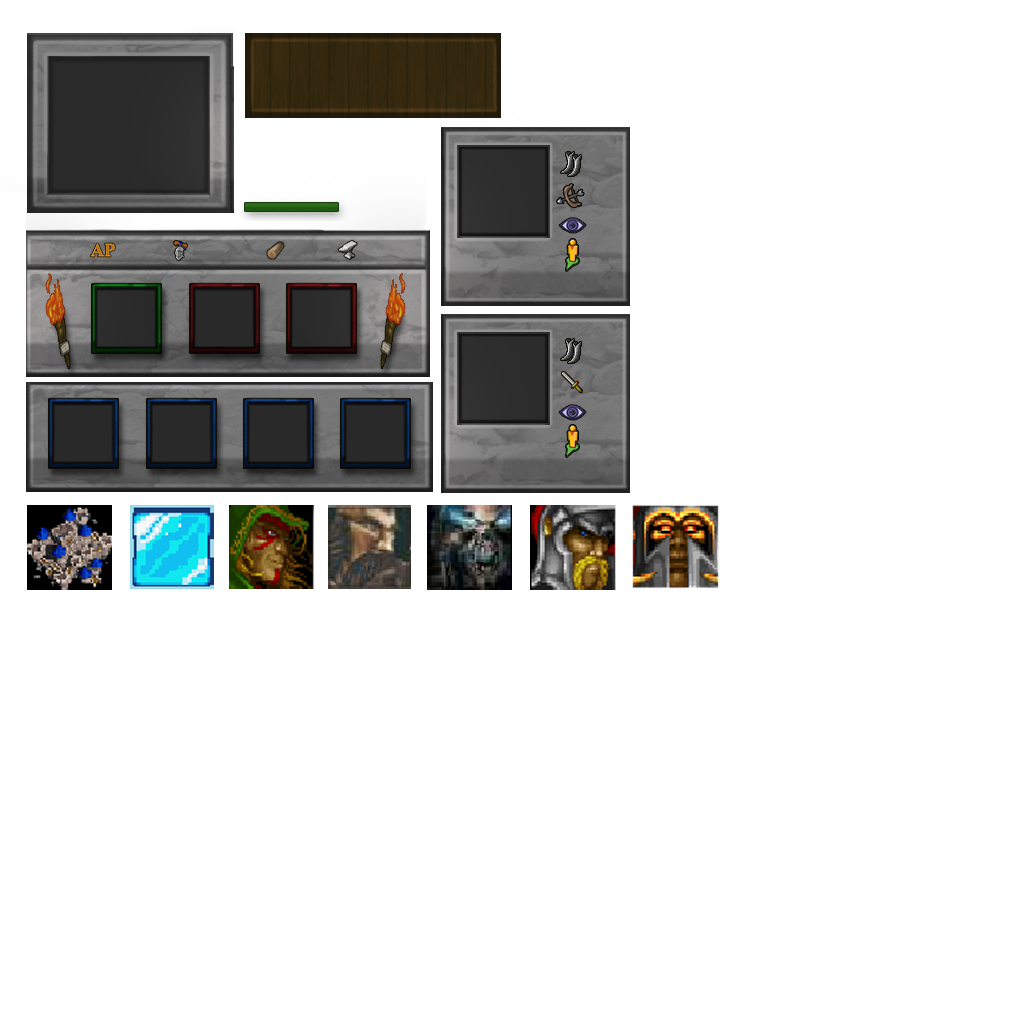
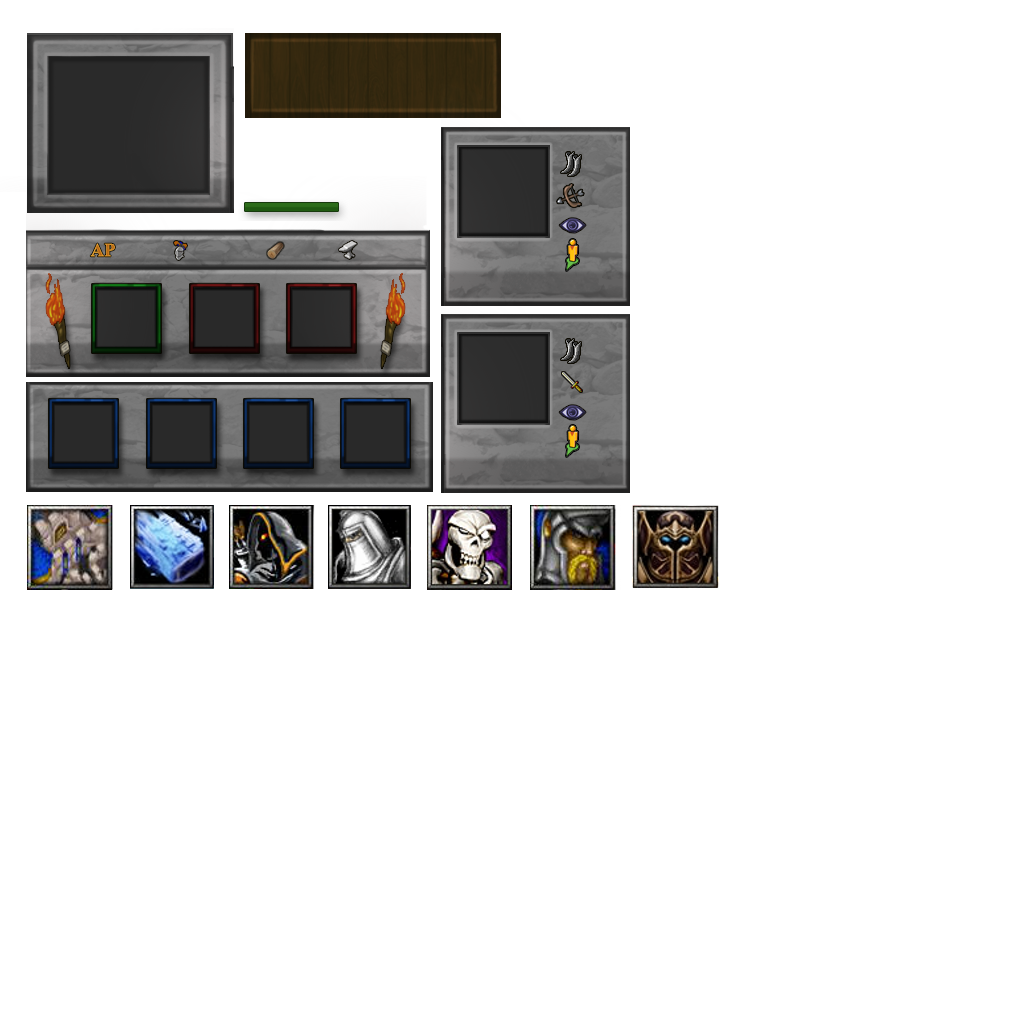
Updated portraits and health number on unit/showcard

Changed region(s): [[0.0, 0.4688, 0.7188, 0.5938]]

diff --git a/LOCC/GameplayState.cpp b/LOCC/GameplayState.cpp
@@ -1829,6 +1829,11 @@ void CGameplayState::Render(void)
 				CGraphicsManager::GetInstance()->GetID(_T("healthbar")),m_nCardOffsetX + 15, 360, 1.0f, 1.0f, &hpRect, 0.0f, 0.0f,
 				0.0f, col);
 
+			int hp = m_pHighlightedUnit->GetHP();
+			std::ostringstream hposs;
+			hposs << hp;
+			m_pBitmapFont->Print(hposs.str().c_str(), m_nCardOffsetX + 54, 359, 0.25f, D3DCOLOR_XRGB(255, 255 ,255));
+
 			// debuffs
 
 			for (int i = 0; i < m_pHighlightedUnit->GetNumEffects(); ++i)
@@ -2224,6 +2229,11 @@ void CGameplayState::Render(void)
 			CSGD_TextureManager::GetInstance()->Draw(
 				CGraphicsManager::GetInstance()->GetID(_T("healthbar")),626, 537, 1.0f, 1.0f, &hpRect, 0.0f, 0.0f,
 				0.0f, col);
+
+			int hp = m_pSelectedUnit->GetHP();
+			std::ostringstream hposs;
+			hposs << hp;
+			m_pBitmapFont->Print(hposs.str().c_str(),  666 , 537, 0.25f, D3DCOLOR_XRGB(255, 255 ,255));
 			//CSGD_Direct3D::GetInstance()->DrawRect(hpRect, colR, colG, 0);
 
 			// debuffs
@@ -2309,7 +2319,7 @@ void CGameplayState::Render(void)
 
 
 		// AI debug render input queue
-		int nY = 40;
+	/*	int nY = 40;
 		for (unsigned int i = 0; i < CAIManager::GetInstance()->m_vInputQueue.size(); ++i)
 		{
 			std::wostringstream woss;
@@ -2369,7 +2379,7 @@ void CGameplayState::Render(void)
 			}
 			CSGD_Direct3D::GetInstance()->DrawTextW((TCHAR*)woss.str().c_str(), 20, nY, 255, 255, 255);
 			nY += 20;
-		}
+		}*/
 
 		//std::wostringstream woss;
 		//woss << "Active Player Mines Owned: " << CGameManager::GetInstance()->GetCurrentPlayer()->GetMinesOwned() <<
@@ -2377,6 +2387,5 @@ void CGameplayState::Render(void)
 		//CSGD_Direct3D::GetInstance()->DrawTextW((TCHAR*)woss.str().c_str(), 60, 150, 255, 0, 255);
 
 		CFloatingText::GetInstance()->Render();
-
 
 }

diff --git a/LOCC/HUD.cpp b/LOCC/HUD.cpp
@@ -50,50 +50,50 @@ RECT CHUD::GetPortrait(UNIT_TYPE unit)
 		break;
 	case UT_SWORDSMAN:
 		{
-			rect.left = 633;
-			rect.top = 506;
-			rect.right = 717;
+			rect.left = 530;
+			rect.top = 505;
+			rect.right = 614;
 			rect.bottom = 586;
 		}
 		break;
 	case UT_ARCHER:
 		{
-			rect.left = 633;
-			rect.top = 506;
-			rect.right = 717;
-			rect.bottom = 586;
+			rect.left = 229;
+			rect.top = 505;
+			rect.right = 312;
+			rect.bottom = 588;
 		}
 		break;
 	case UT_ICEBLOCK:
 		{
-			rect.left = 633;
-			rect.top = 506;
-			rect.right = 717;
-			rect.bottom = 586;
+			rect.left = 130;
+			rect.top = 505;
+			rect.right = 213;
+			rect.bottom = 588;
 		}
 		break;
 	case UT_CASTLE:
 		{
-			rect.left = 633;
-			rect.top = 506;
-			rect.right = 717;
-			rect.bottom = 586;
+			rect.left = 27;
+			rect.top = 505;
+			rect.right = 111;
+			rect.bottom = 589;
 		}
 		break;
 	case UT_SKELETON:
 		{
-			rect.left = 633;
-			rect.top = 506;
-			rect.right = 717;
-			rect.bottom = 586;
+			rect.left = 427;
+			rect.top = 505;
+			rect.right = 511;
+			rect.bottom = 589;
 		}
 		break;
 	case UT_CAVALRY:
 		{
-			rect.left = 633;
-			rect.top = 506;
-			rect.right = 717;
-			rect.bottom = 586;
+			rect.left = 328;
+			rect.top = 505;
+			rect.right = 410;
+			rect.bottom = 588;
 		}
 		break;
 	}

diff --git a/LOCC/AIManager.cpp b/LOCC/AIManager.cpp
@@ -1667,7 +1667,11 @@ void CAIManager::UpdateAI(float fElapsedTime)
 		if (CheckOrderQueue(fElapsedTime))
 			return;
 
-		if (m_vUnitsToHandle.size() != 0)
+		if (CGameManager::GetInstance()->GetCurrentPlayer()->GetAP() <= 0)
+		{
+			m_vInputQueue.push_back(INPUT_START);
+		}
+		else if (m_vUnitsToHandle.size() != 0)
 		{
 				RunAIScript(m_vUnitsToHandle.front());
 		}
